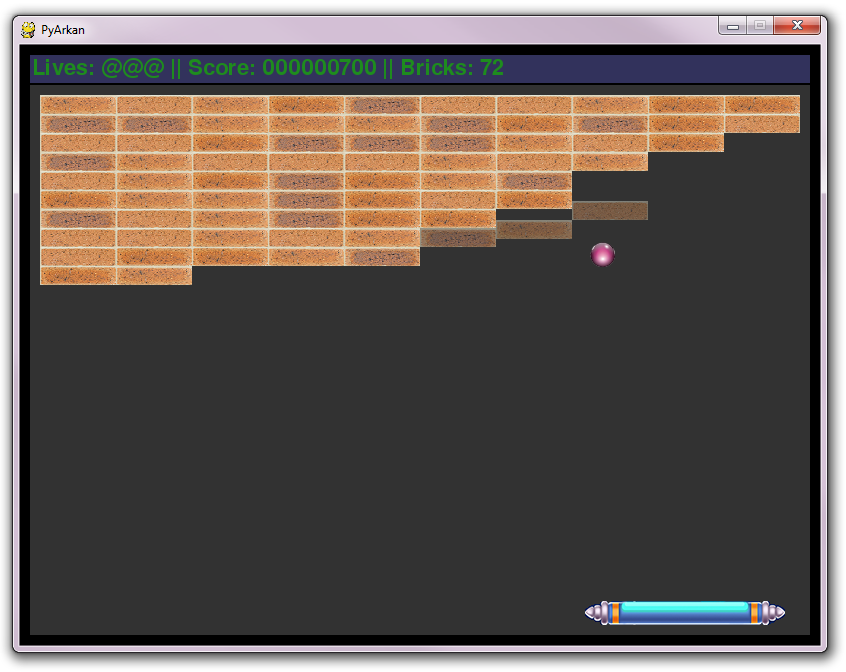
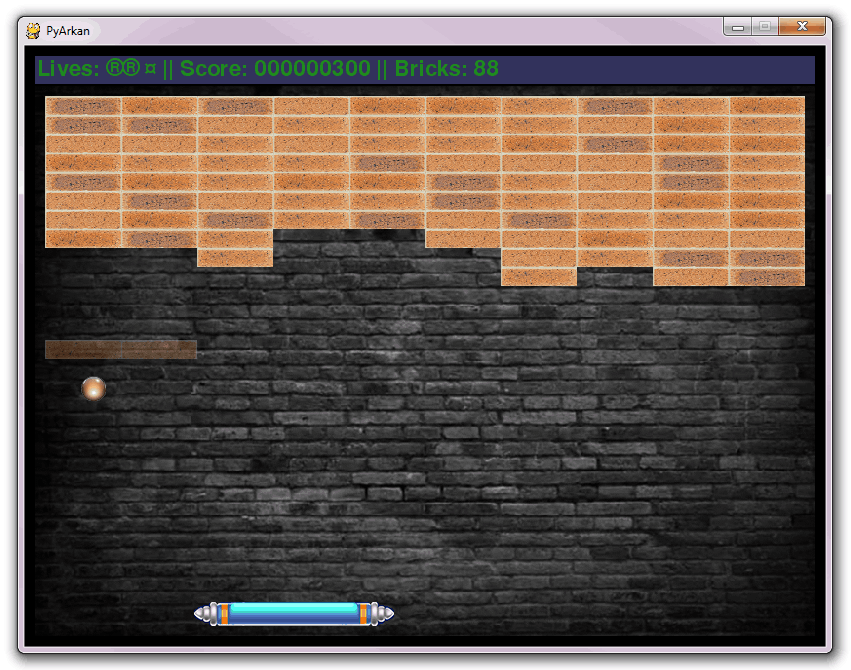
add wall image for background

diff --git a/PyArkan.py b/PyArkan.py
@@ -246,7 +246,8 @@ def GetScoreLivesInfo(score):
 # Create game surface
 screen = pg.Surface((screen_width, screen_height))
 # Fill game surface with gray
-screen.fill((50,50,50))
+#screen.fill((50,50,50))
+wall = pg.image.load("wall.png").convert()
 # Create block of information
 info_str = pg.Surface((screen_width, margin_top - margin_bot - 2))
 # Fill infoblock
@@ -286,7 +287,8 @@ while lives>0 and done:
 					desk.fixed = False
 				desk.speed.dx += desk_acseleration
 	# Clear game screen with gray
-	screen.fill((50,50,50))
+	# screen.fill((50,50,50))
+	screen.blit(pg.transform.scale(wall,(screen_width,screen_height)),(0,0))	
 	# Clear Information
 	info_str.fill((50,50,92))
 	# Render objects
